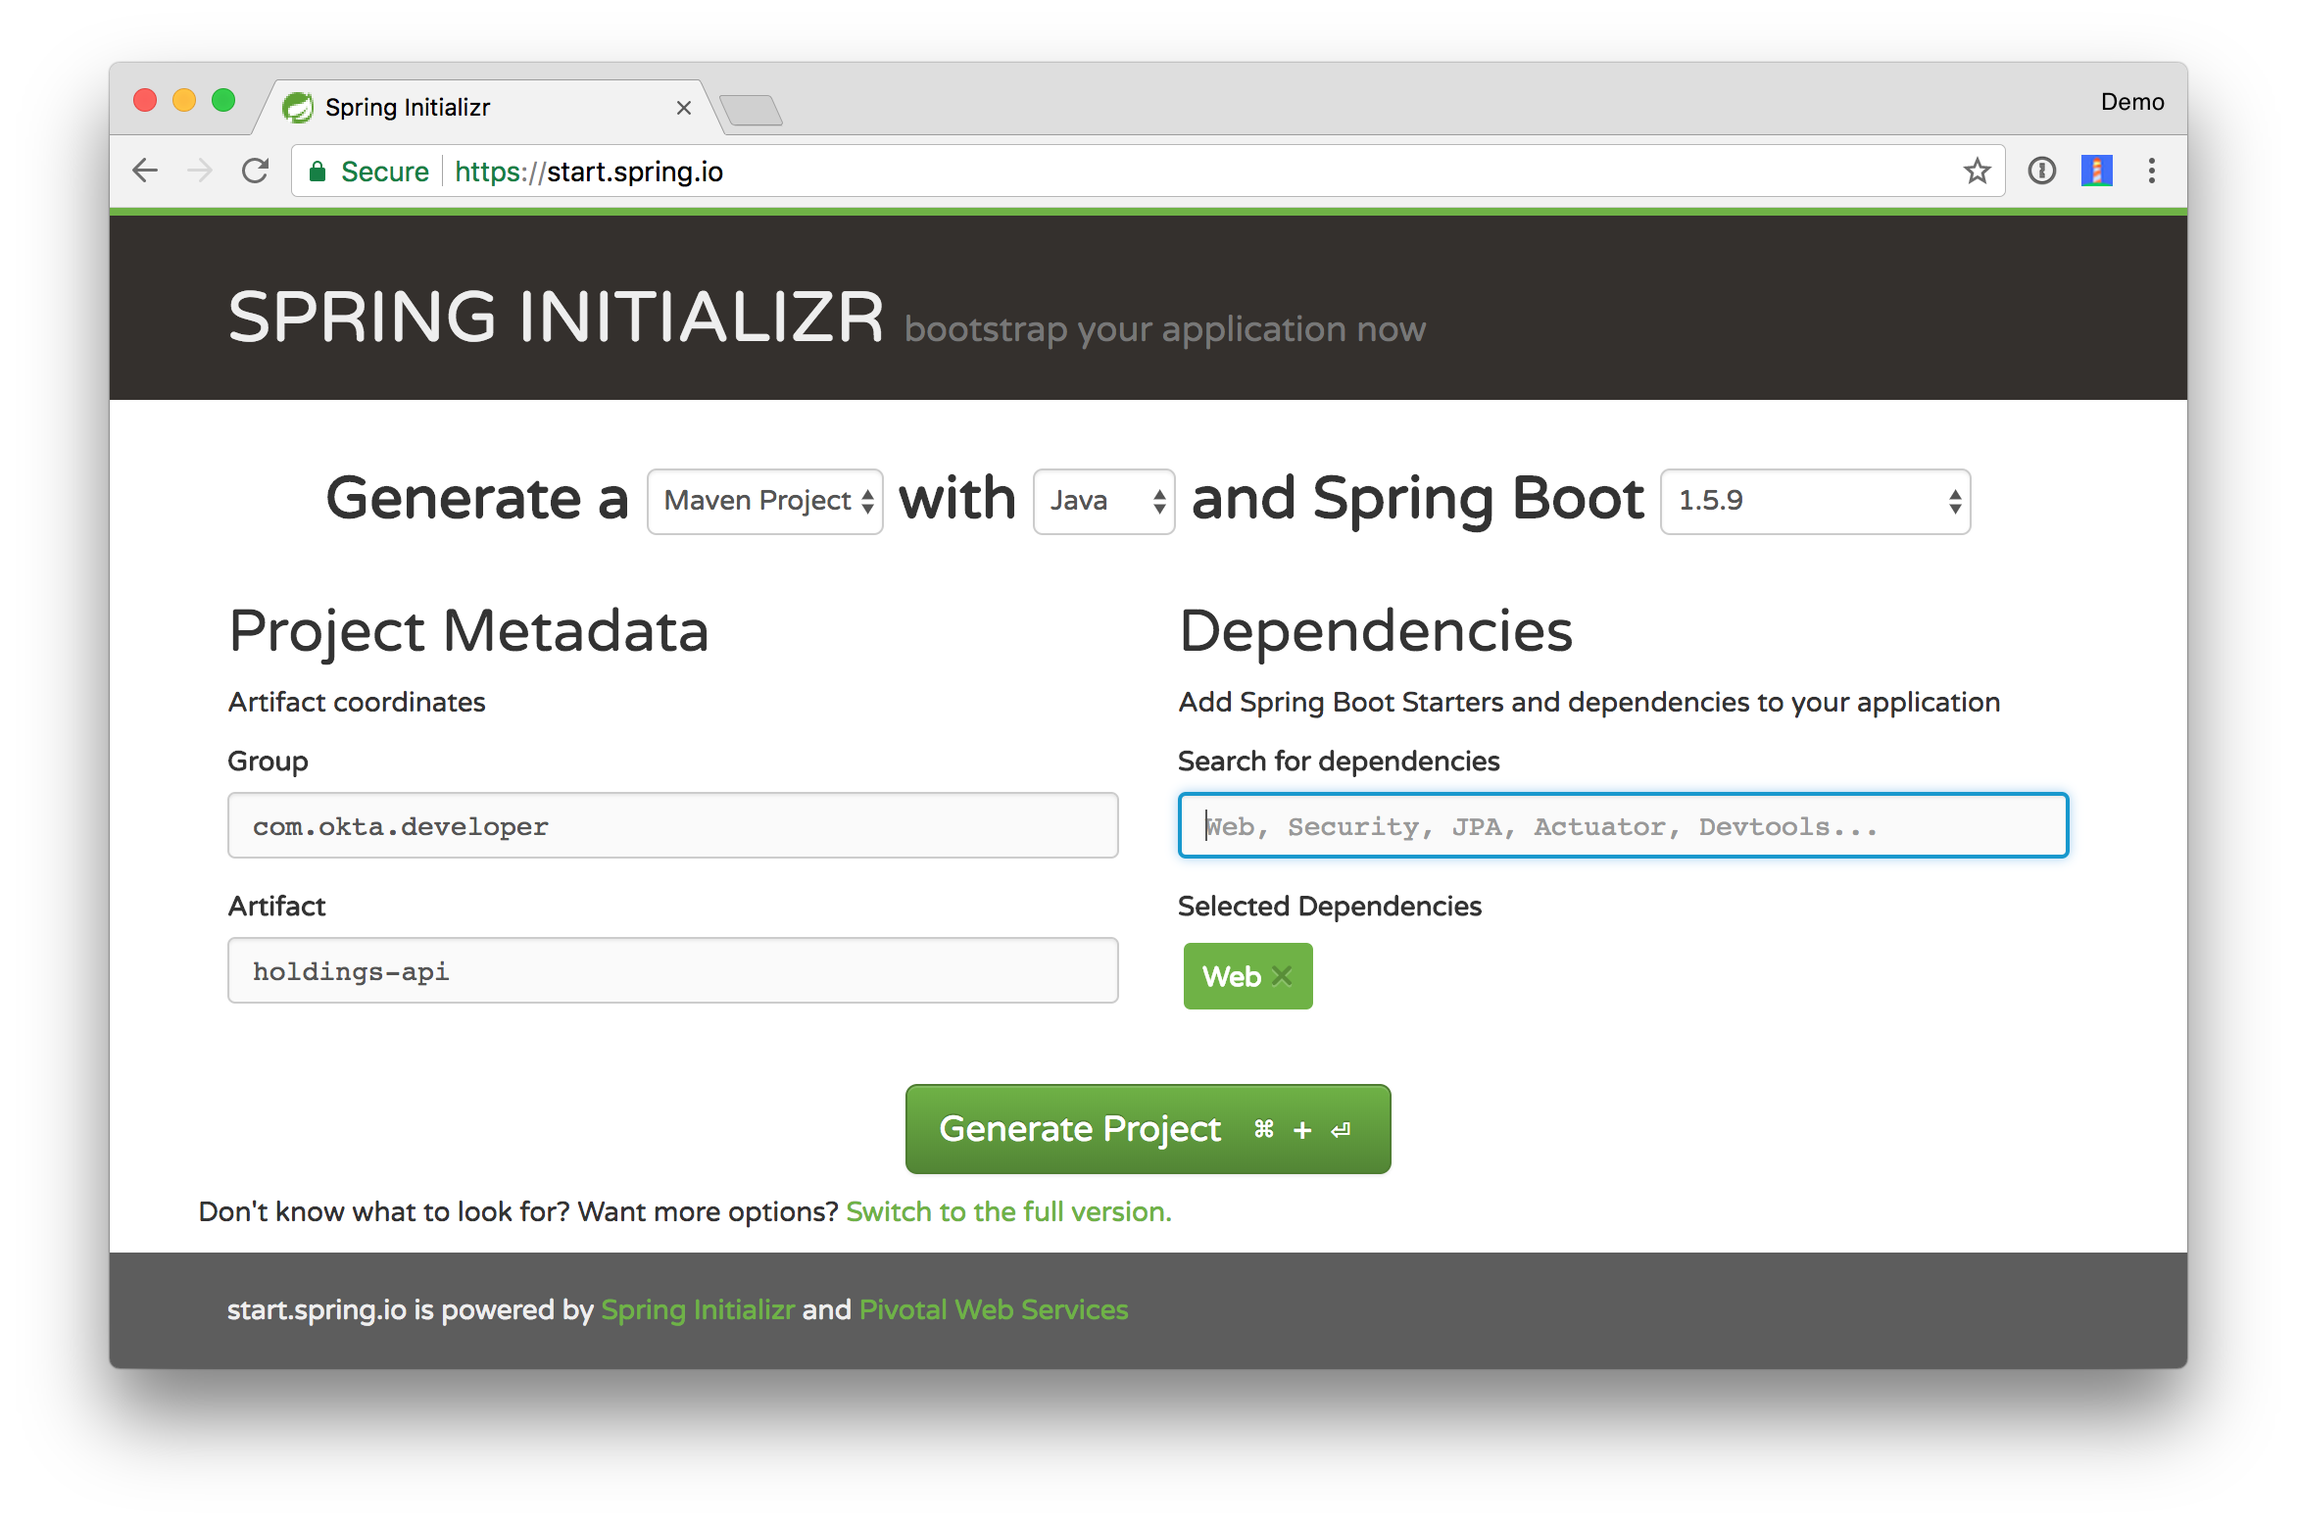
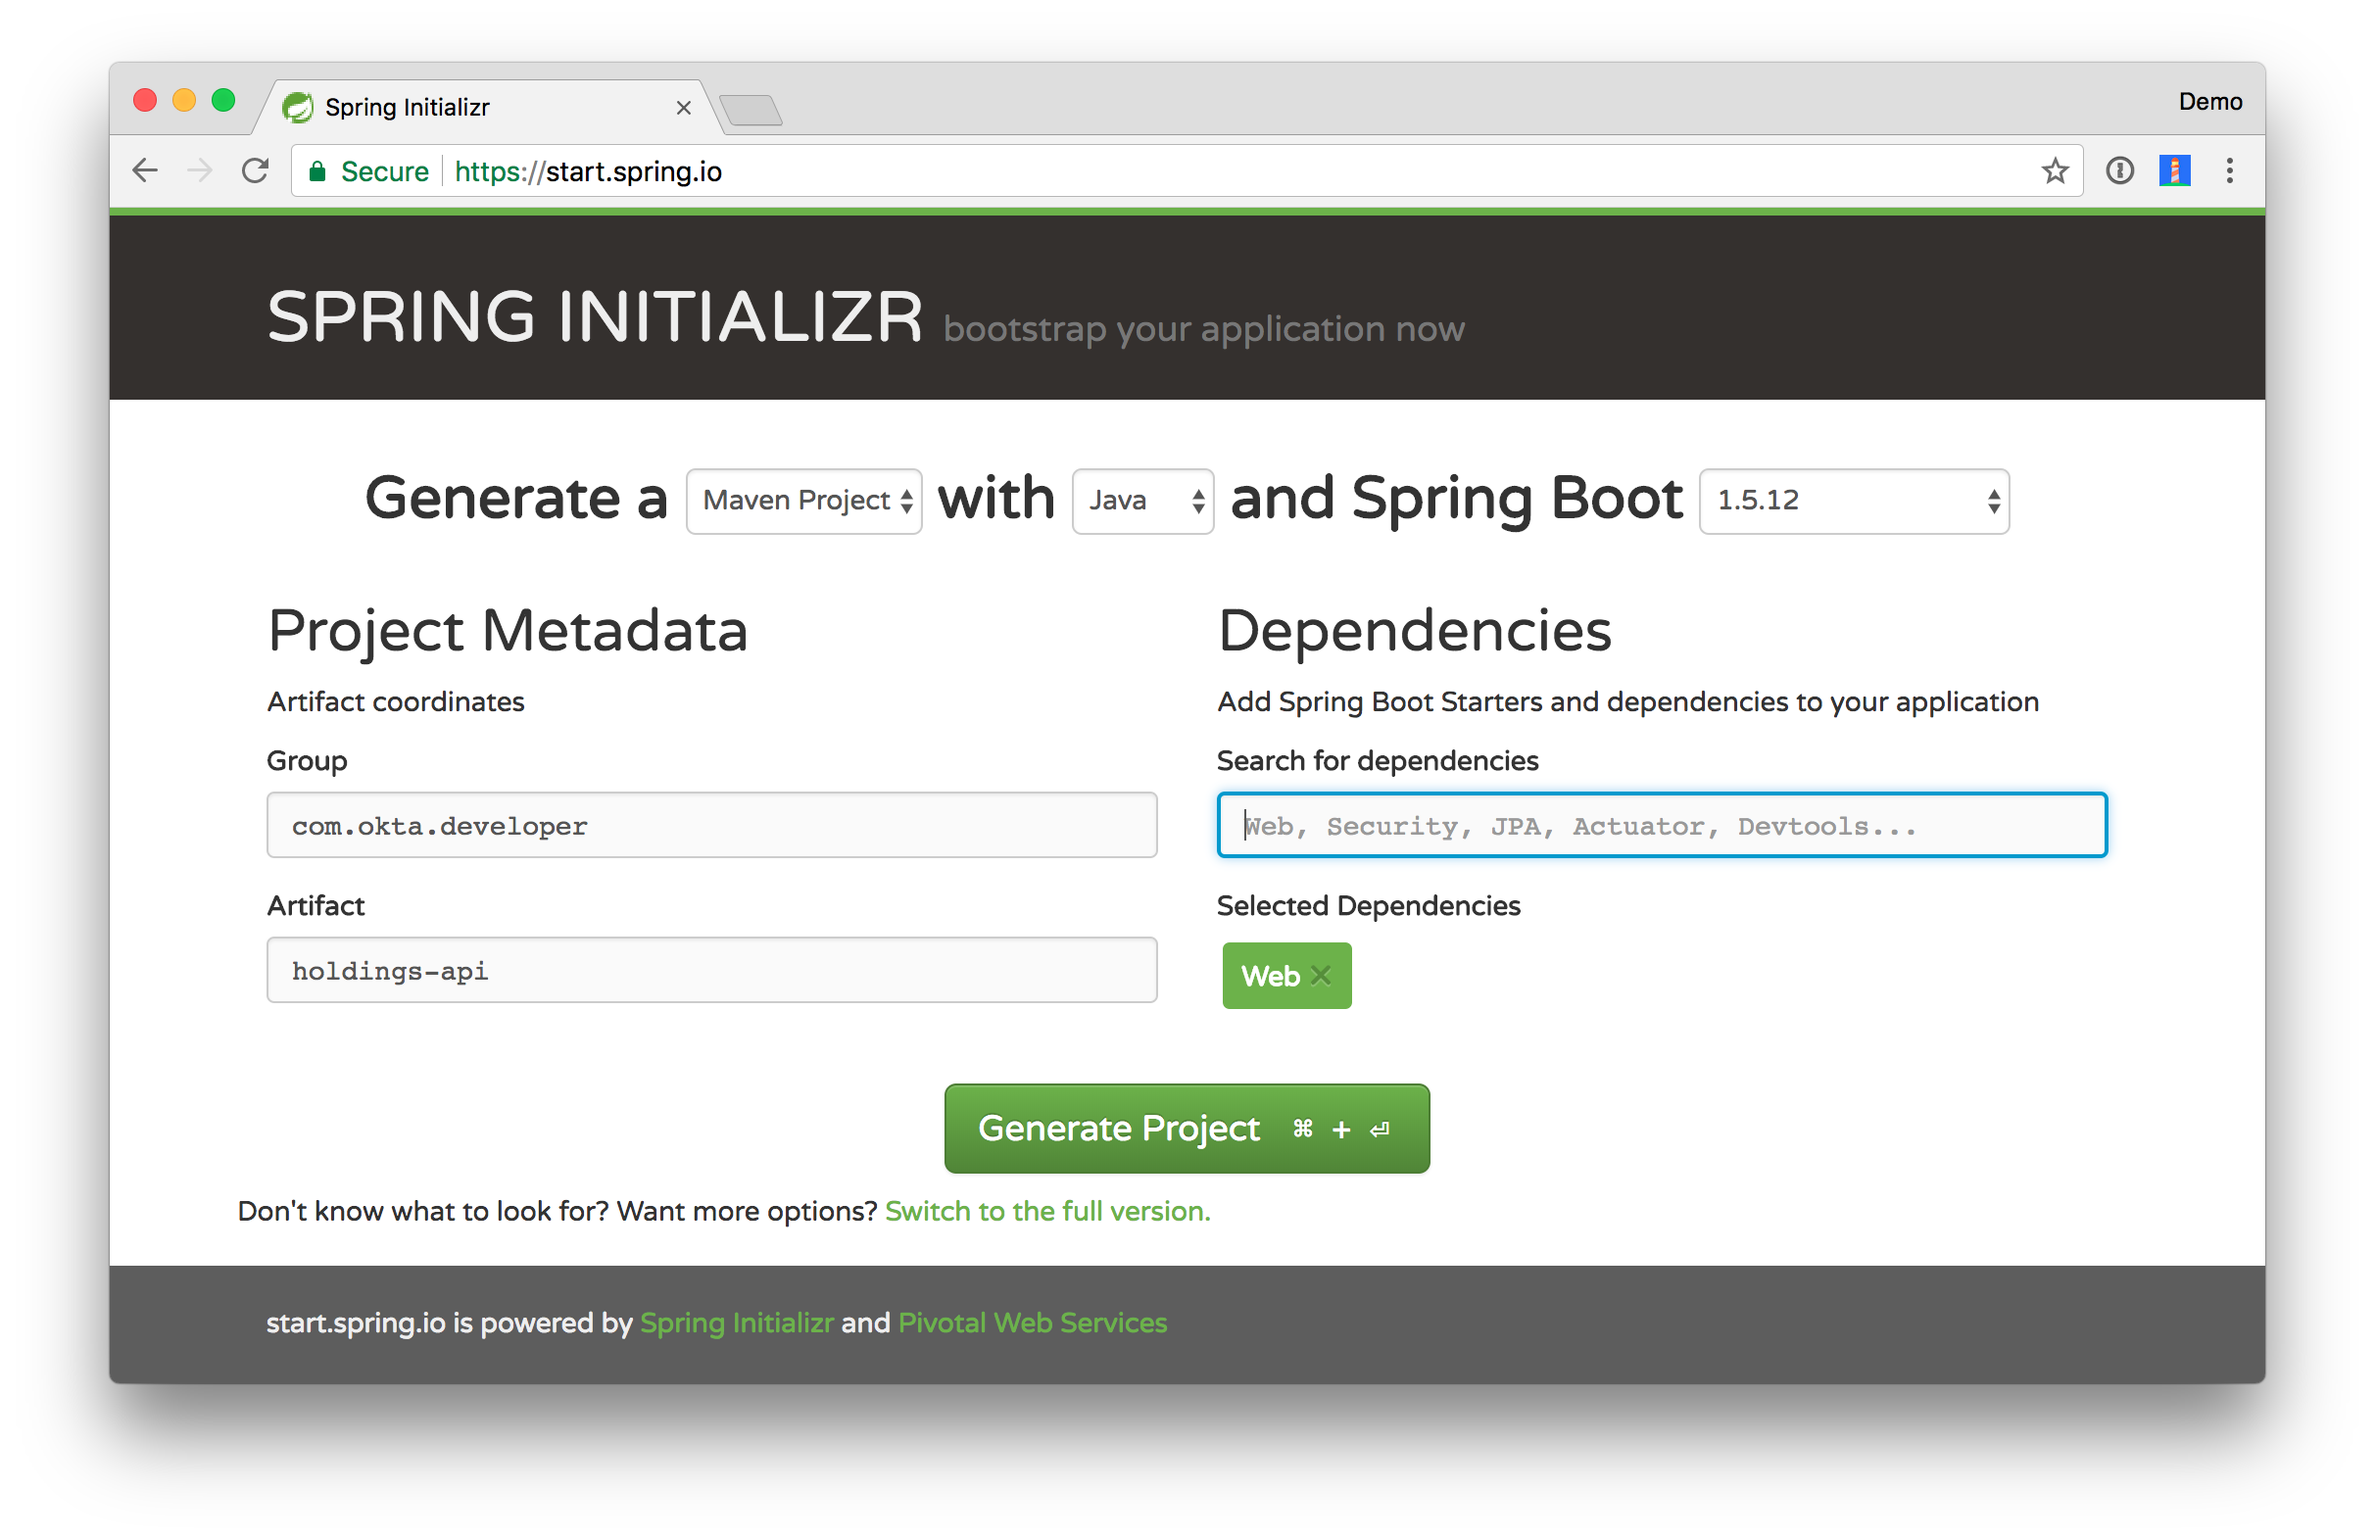
Update Okta Custom Profile Attributes blog post to use Okta Starter and Java SDK v0.4.0

diff --git a/_source/_posts/2018-01-23-replace-local-storage-with-okta-profile-attributes.md b/_source/_posts/2018-01-23-replace-local-storage-with-okta-profile-attributes.md
@@ -8,6 +8,7 @@ tweets:
  - "Learn how to use the @okta Java SDK to store custom profile attributes to manage your cryptocurrency portfolio  →"
  - "Did you know that we provide a @java SDK for talking to our REST API? It's pretty slick. This blog post shows you how to use it to manage custom profile attributes."
 ---
+
 Local Storage is a JavaScript API technically known as `localStorage` that arrived with HTML5. It allows you to store information on a user’s browser quickly and easily. There are many debates on the web as to whether it’s better than cookies. Some say it’s faster (because it doesn’t send data with every request like cookies do) and more secure.
 Whether it’s more secure or not is debatable, especially when compared with secure cookies that have an [HttpOnly flag](https://www.owasp.org/index.php/HttpOnly). It does, however, offer the ability to store a lot more data than cookies. Cookies [can hold up to 4KB](http://browsercookielimits.squawky.net/), while local storage [can hold 5MB or more](https://www.html5rocks.com/en/tutorials/offline/quota-research/), depending on your browser.
 
@@ -53,7 +54,7 @@ Use the default values for everything else and click **Save**.
 
 ## Create a Spring Boot App
 
-Head on over to [start.spring.io](https://start.spring.io) and create a new Spring Boot project with a dependency on **Web**. You can use whatever group and artifact coordinates you like, but the code in this tutorial will match the following:
+Head on over to [start.spring.io](https://start.spring.io) and create a new Spring Boot (1.5.x) project with a dependency on **Web**. You can use whatever group and artifact coordinates you like, but the code in this tutorial will match the following:
 
 * Group: `com.okta.developer`
 * Artifact: `holdings-api`
@@ -89,7 +90,7 @@ Open `holdings-api/pom.xml` and add dependencies for the [Okta Spring Boot Start
 ```xml
 <properties>
    ...
-   <okta.version>0.3.0</okta.version>
+   <okta.version>0.4.0</okta.version>
 </properties>
 
 <dependencies>
@@ -112,7 +113,7 @@ Open `holdings-api/pom.xml` and add dependencies for the [Okta Spring Boot Start
        <dependency>
            <groupId>org.springframework.security.oauth</groupId>
            <artifactId>spring-security-oauth2</artifactId>
-           <version>2.2.0.RELEASE</version>
+           <version>2.3.0.RELEASE</version>
        </dependency>
    </dependencies>
 </dependencyManagement>
@@ -416,3 +417,7 @@ I think you'll find the following blog posts useful too!
 * [Add Role-Based Access Control to Your App with Spring Security and Thymeleaf](/blog/2017/10/13/okta-groups-spring-security)
 
 If you love Java too, [follow @oktadev](https://twitter.com/oktadev) on Twitter and let us know if you have any issues with this tutorial. You can also post your questions to the [Okta Developer Forums](https://devforum.okta.com/) or simply leave a comment on this post.
+
+**Changelog:**
+
+* Apr 10, 2018: Updated dependencies in the example app to use Okta Spring Boot Starter and Java SDK version 0.4.0. See the code changes in the [example app on GitHub](https://github.com/oktadeveloper/okta-ionic-crypto-java-sdk/pull/2). Changes to this article can be viewed in [okta/okta.github.io#1941](https://github.com/okta/okta.github.io/pull/1941).
